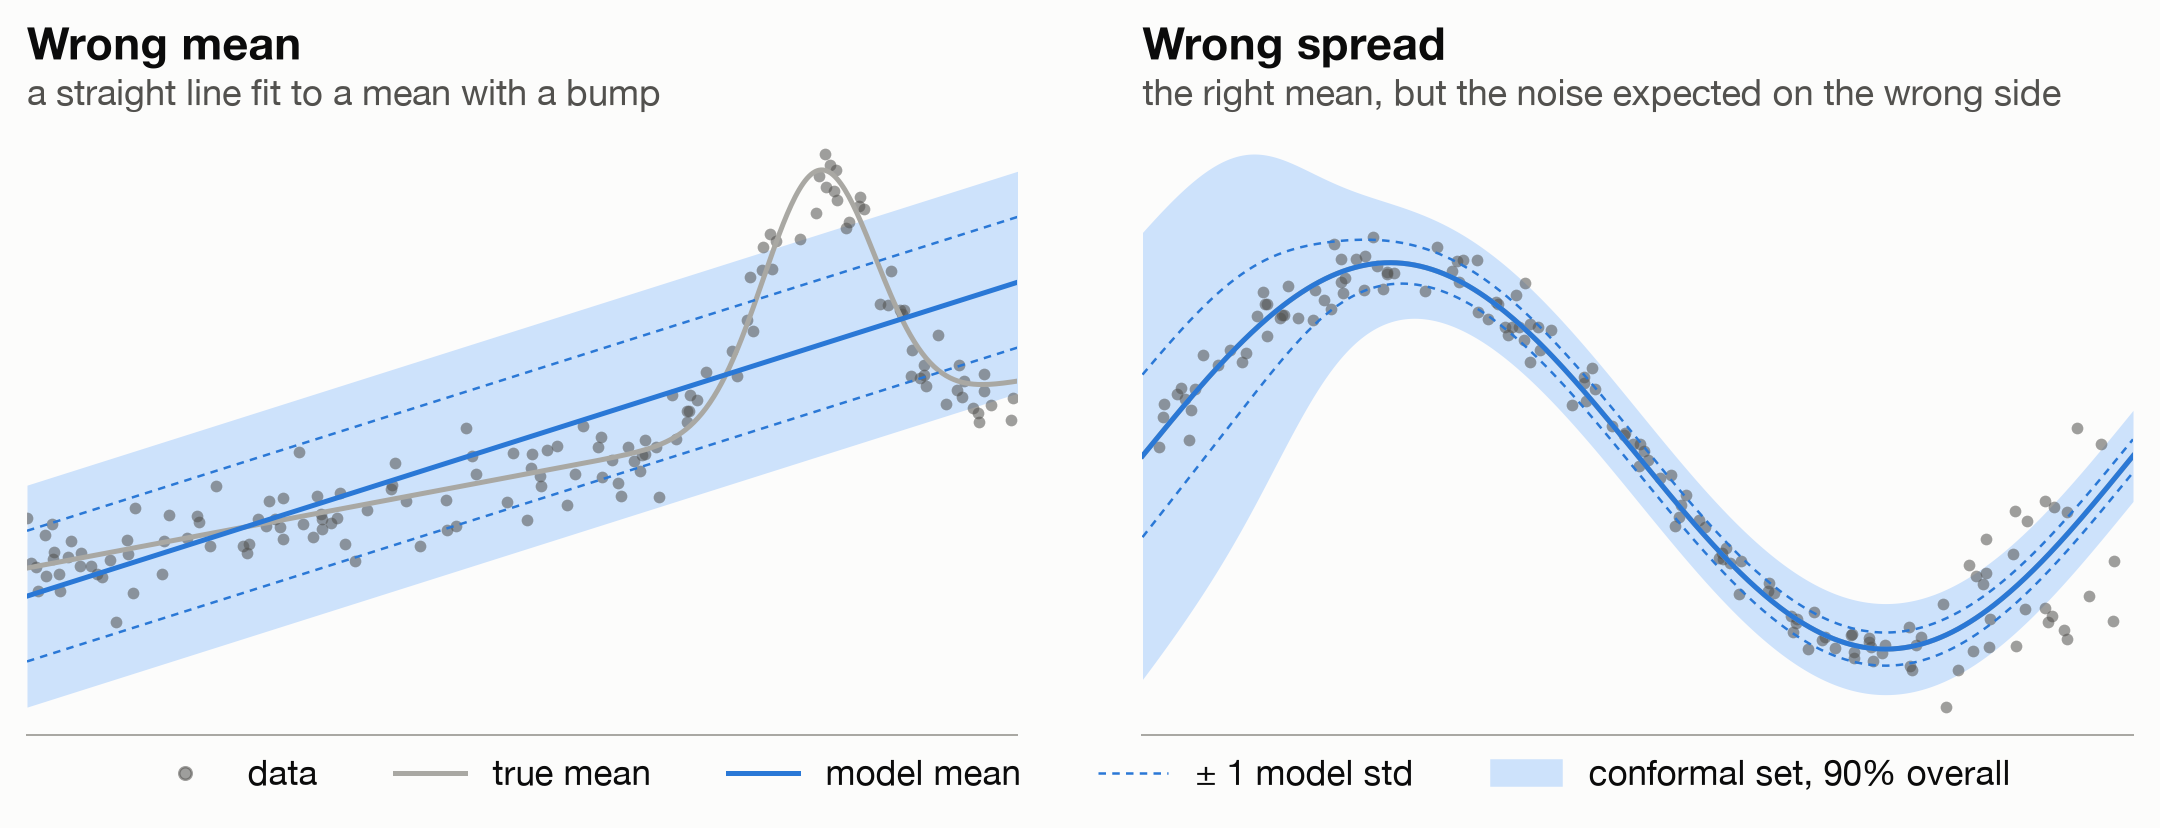
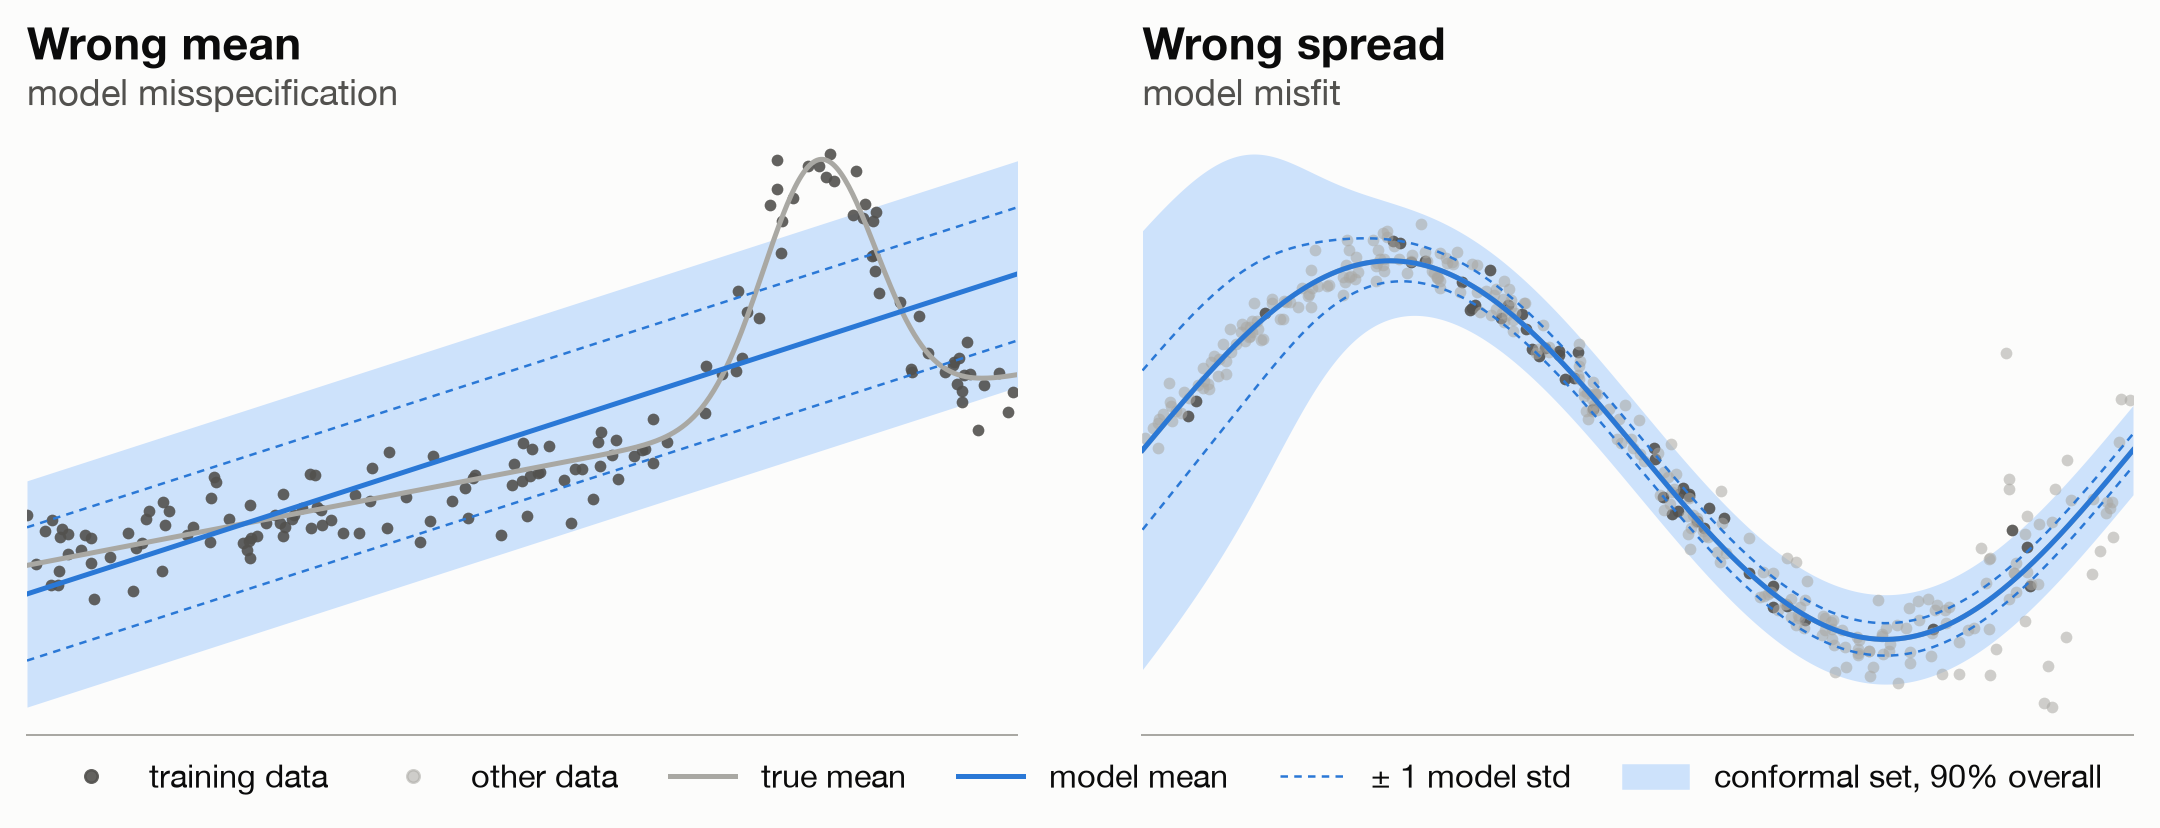
Fine-tuned the main figure a bit

diff --git a/assets/img/posts/conformal-prediction/misfit.py b/assets/img/posts/conformal-prediction/misfit.py
@@ -40,7 +40,7 @@ def make_wrong_mean():
     std = np.std(y - fit(x))  # max-likelihood fixed variance of the linear-Gaussian model
     return dict(
         title="Wrong mean",
-        subtitle="a straight line fit to a mean with a bump",
+        subtitle="model misspecification",
         sample=sample, true_mu=mu, mu=fit, scale=lambda x: np.full_like(x, std),
     )
 
@@ -48,12 +48,15 @@ def make_wrong_mean():
 def make_wrong_spread():
     mu = lambda x: 0.35 * np.sin(2 * np.pi * x)
     sigma = lambda x: 0.03 + 0.12 / (1 + np.exp(-(x - 0.85) / 0.04))
-    sample = lambda n: (lambda x: (x, mu(x) + sigma(x) * rng.standard_normal(n)))(
-        rng.uniform(0, 1, n))
+    draw = lambda x: (x, mu(x) + sigma(x) * rng.standard_normal(len(x)))
+    sample = lambda n: draw(rng.uniform(0, 1, n))
+    # Few training points at the ends pin the mean but not the spread.
     return dict(
         title="Wrong spread",
-        subtitle="the right mean, but the noise expected on the wrong side",
+        subtitle="model misfit",
         sample=sample, true_mu=mu, mu=mu, scale=lambda x: sigma(1 - x),
+        train=draw(np.concatenate([rng.uniform(0.25, 0.7, 40), rng.uniform(0, 0.25, 3),
+                                   rng.uniform(0.7, 1, 4)])),
     )
 
 
@@ -71,7 +74,12 @@ for ax, case in zip(axes, (make_wrong_mean(), make_wrong_spread())):
 
     ax.fill_between(xg, mu(xg) - q * scale(xg), mu(xg) + q * scale(xg), color=SET_PALE, lw=0,
                     zorder=0)
-    ax.scatter(xt[:N_SHOW], yt[:N_SHOW], s=22, color=INK2, alpha=0.55, lw=0, zorder=1)
+    if "train" in case:
+        n, color, alpha = 2 * N_SHOW, POINT, 0.55
+        ax.scatter(*case["train"], s=22, color=INK2, alpha=0.9, lw=0, zorder=1)
+    else:
+        n, color, alpha = N_SHOW, INK2, 0.9
+    ax.scatter(xt[:n], yt[:n], s=22, color=color, alpha=alpha, lw=0, zorder=1)
     ax.plot(xg, case["true_mu"](xg), color=POINT, lw=2, zorder=2)
     ax.plot(xg, mu(xg), color=SET, lw=2, zorder=3)
     for sign in (-1, 1):
@@ -92,13 +100,14 @@ for ax, case in zip(axes, (make_wrong_mean(), make_wrong_spread())):
     print(f"{case['title']}: coverage {covered.mean():.3f}")
 
 handles = [
-    Line2D([], [], ls="", marker="o", ms=5, color=INK2, alpha=0.55, label="data"),
+    Line2D([], [], ls="", marker="o", ms=5, color=INK2, alpha=0.9, label="training data"),
+    Line2D([], [], ls="", marker="o", ms=5, color=POINT, alpha=0.55, label="other data"),
     Line2D([], [], color=POINT, lw=2, label="true mean"),
     Line2D([], [], color=SET, lw=2, label="model mean"),
     Line2D([], [], color=SET, lw=1, ls=(0, (3, 2.5)), label="± 1 model std"),
     Patch(color=SET_PALE, label="conformal set, 90% overall"),
 ]
-fig.legend(handles=handles, loc="lower center", ncol=5, frameon=False, fontsize=14,
-           bbox_to_anchor=(0.5, 0.005), columnspacing=2.2)
+fig.legend(handles=handles, loc="lower center", ncol=6, frameon=False, fontsize=13,
+           bbox_to_anchor=(0.5, 0.005), columnspacing=1.6)
 fig.tight_layout(rect=(0, 0.08, 1, 0.88), w_pad=5)
 fig.savefig(Path(__file__).with_suffix(".png"), dpi=180, facecolor=SURFACE)

diff --git a/_posts/2026-09-25-conformal-prediction.md b/_posts/2026-09-25-conformal-prediction.md
@@ -21,7 +21,7 @@ authors:
 toc:
   - name: How Conformal Prediction Works
   - name: A Wrapper Cannot Fix the Model
-  - name: Where It Goes Wrong
+  - name: Some Pitfalls to Watch For
   - name: What It Is Good For
 ---
 
@@ -59,14 +59,14 @@ which simply thresholds the model's predicted probabilities. What conformal pred
     </div>
 </div>
 <div class="caption">
-    <b>Conformal prediction fixes neither a misspecified model nor a poor fit.</b> Left: a model with a linear mean, which cannot represent data with a bump. Right: a model that can represent noise that changes with the input, but is fit poorly and expects the noise where the data is quiet rather than where it is noisy. The conformal set follows this wrong spread. Both sets cover 90% of the data overall, yet they are too wide where the model is fine and miss where it is wrong: on the bump and at the noisy end.
+    <b>Conformal prediction fixes neither a misspecified model nor a poor fit.</b> Left: a model with a linear mean, which cannot represent data with a bump. Right: a model that can represent noise that changes with the input, but has not seen enough data. Where data is sparse, its inductive bias decides the spread, and it expects the noise where the data is quiet rather than where it is noisy. The conformal set follows this wrong spread. Both sets cover 90% of the data overall, yet wherever the model is wrong, the set is too wide or too narrow.
 </div>
 
 The left model is a classic regression model: a Gaussian with a constant variance and a mean that is linear in the input. Since the data has a bump, the model is misspecified. The right model is heteroscedastic: it also predicts the variance at each input. It could capture the noise, but it is fit poorly.
 
 Both use a score that divides the error by the model's standard deviation $\sigma(x)$, so the conformal set is $f(x) \pm \hat q\,\sigma(x)$. The shape of the set comes from the model, and conformal prediction only scales it. Wherever the model is wrong, so is the set, even though it covers 90% overall.<d-footnote>A cleverer conformal method cannot fix this. For continuous inputs, no distribution-free method can guarantee coverage at each input, known as conditional coverage, unless its sets have infinite expected width <d-cite key="barber2021limits"></d-cite>. Coverage at each input needs assumptions about the data, and a model is where those assumptions live.</d-footnote>
 
-## Where It Goes Wrong
+## Some Pitfalls to Watch For
 
 Since the part that depends on the input comes from the model, the typical failures of conformal prediction are failures of the model.
 
